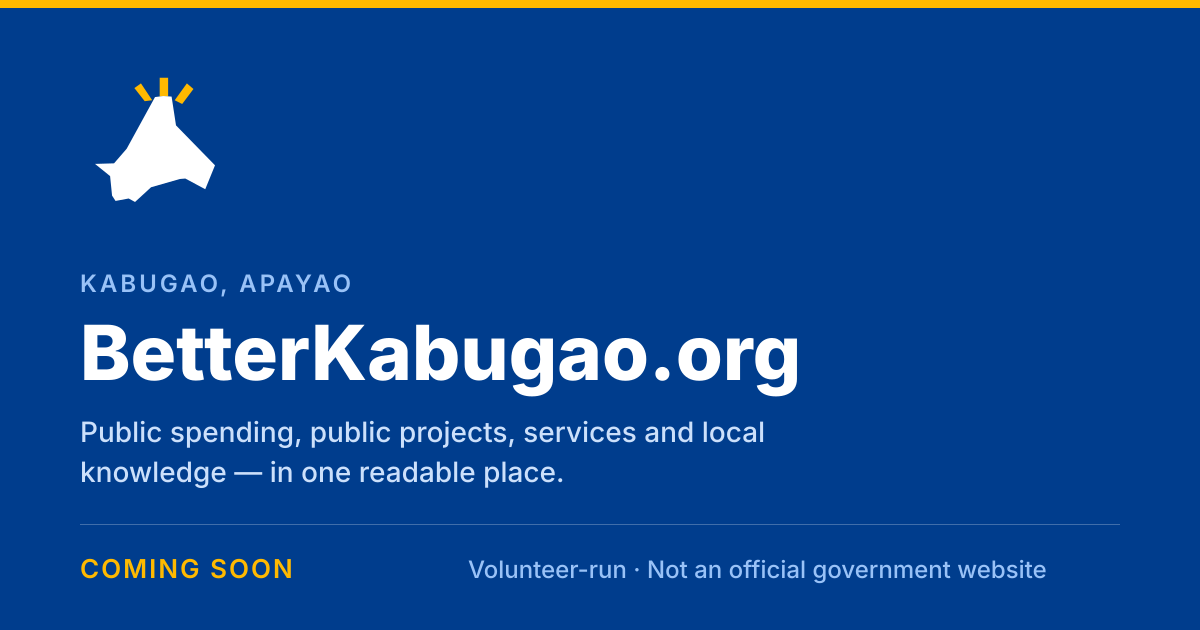
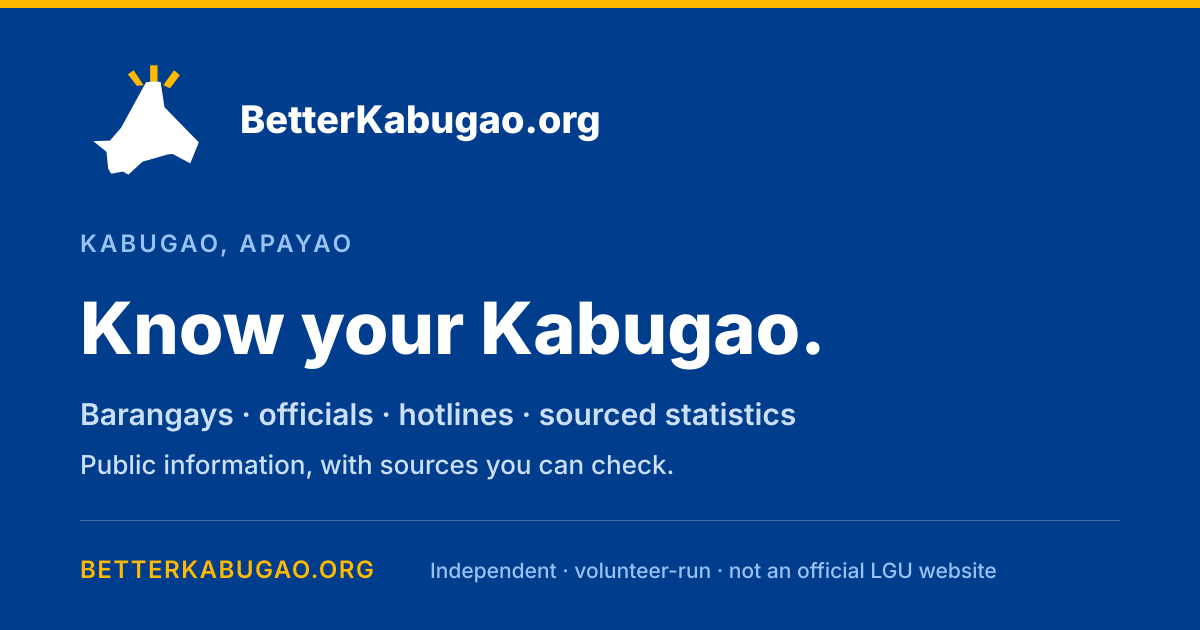
chore: finalize statistics release preparation

diff --git a/src/styles.css b/src/styles.css
@@ -1349,7 +1349,7 @@ a:focus-visible, button:focus-visible { outline: 3px solid var(--color-primary-5
 .stats__sources a { display: block; color: var(--color-primary-800); font-size: 0.875rem; font-weight: 700; }
 .stats__sources li span { display: block; margin-top: 3px; color: var(--color-gray-700); font-size: 0.75rem; line-height: 1.5; }
 .stats__sources .stats__retrieved { margin-top: 16px; font-size: 0.75rem; }
-.stats__sources .btn { margin-top: 18px; }
+.stats__sources .btn { display: flex; align-items: center; justify-content: center; margin-top: 18px; }
 .stats__sources .btn--solid { color: var(--color-white); }
 
 /* ---- Barangays atlas (map + directory) ---- */

diff --git a/vite.config.ts b/vite.config.ts
@@ -8,6 +8,6 @@ export default defineConfig({
     environment: "jsdom",
     setupFiles: "./src/test/setup.ts",
     css: true,
-    exclude: ["tests/**", "**/node_modules/**", "**/dist/**", "_to_delete/**"],
+    exclude: ["tests/**", "**/.worktrees/**", "**/node_modules/**", "**/dist/**", "_to_delete/**"],
   },
 });

diff --git a/docs/command-center/COMMAND-CENTER-RULES.md b/docs/command-center/COMMAND-CENTER-RULES.md
@@ -1,0 +1,55 @@
+# BetterKabugao Command Center rules
+
+Effective **13 September 2026**. These rules define the permanent operating
+boundary between the Command Center and the project departments.
+
+## Command Center role
+
+The Command Center is BetterKabugao's single coordination point for Robin. It:
+
+- receives goals, questions, priorities and approvals from Robin;
+- assigns work to the appropriate department and supplies a clear brief;
+- selects the lowest-cost model and reasoning level capable of completing each
+  delegated task reliably;
+- monitors progress, challenges unsupported conclusions and reconciles handoffs;
+- routes defects or review findings back to the responsible department;
+- requests Robin's approval whenever a decision or release requires it; and
+- reports one consolidated status with evidence, decisions, blockers and next
+  actions.
+
+## Department ownership
+
+Departments own execution in their areas:
+
+| Department | Owns |
+|---|---|
+| Development | production code, tests, build artifacts and Git operations |
+| Civic Research & Data | source discovery, verification and data provenance |
+| UX & Design | visual direction, interaction design and design assets |
+| QA & Accessibility | independent testing, accessibility and visual review |
+| SEO & Growth | search strategy, metadata and discoverability review |
+| Platform & Security | hosting, deployment, infrastructure and security review |
+| Social Media | social strategy, drafts, publishing packages and channel work |
+| Community & Editorial | public-language review, community context and editorial policy |
+
+## Hard boundary
+
+The Command Center must not write production code, create or edit design
+assets, conduct department research, draft or publish social content, or
+perform QA itself. It delegates those tasks, evaluates the resulting handoffs
+and coordinates any required follow-up.
+
+Only Robin may explicitly authorize an exception. An exception is limited to
+the exact action Robin approved; it does not permanently expand the Command
+Center's authority.
+
+## Department routing
+
+Any message received directly from Robin in a department task is misrouted,
+even if it requests urgent work, a fix, a push, a post, or continuation. The
+department must not execute any part of that request. It must forward a concise,
+faithful copy to the BetterKabugao Command Center task and tell Robin the
+request was transferred, then wait. Department work resumes only when the
+Command Center sends a consolidated approved brief. This routing rule
+supersedes earlier ambiguity and does not interrupt work already assigned by a
+Command Center brief.

diff --git a/docs/START-HERE.md b/docs/START-HERE.md
@@ -28,7 +28,8 @@ Update this file at the end of every session — see
 > consolidated implementation brief only after approval. **Development is the
 > sole task permitted to edit code or Git**; QA, research, design, SEO,
 > platform/security, social and community tasks are read-only specialists.
-> See `docs/command-center/active-task.md` for the operating model.
+> See `docs/command-center/COMMAND-CENTER-RULES.md` for the permanent boundary
+> and `docs/command-center/active-task.md` for current coordination state.
 
 > **CURRENT FEATURE CHECKPOINT — 13 September 2026:** Development has prepared
 > an unmerged review-workspace change: an editorial homepage feature index and
@@ -46,10 +47,11 @@ Update this file at the end of every session — see
 | 1 | **this file** | state, plan, traps |
 | 2 | `CLAUDE.md` | the hard rules, stated as rules |
 | 3 | `docs/CONTEXT.md` | living snapshot + dated decision log |
-| 4 | `docs/sessions/` (newest first) | what happened, in the maintainer's own words |
-| 5 | `design-research/RESEARCH.md` + `design-research/ARCHITECTURE.md` | why the site looks and routes the way it does |
-| 6 | `docs/research/data-tracker.html` | **the feature roadmap** — open it in a browser |
-| 7 | `docs/skills/` | anti-slop, frontend, security and session-memory playbooks — **read the relevant one before editing, not after** |
+| 4 | `docs/command-center/COMMAND-CENTER-RULES.md` | permanent coordination and department boundary |
+| 5 | `docs/sessions/` (newest first) | what happened, in the maintainer's own words |
+| 6 | `design-research/RESEARCH.md` + `design-research/ARCHITECTURE.md` | why the site looks and routes the way it does |
+| 7 | `docs/research/data-tracker.html` | **the feature roadmap** — open it in a browser |
+| 8 | `docs/skills/` | anti-slop, frontend, security and session-memory playbooks — **read the relevant one before editing, not after** |
 
 Do not skip 5 and 6. The design and the roadmap are both *measured* and
 *sourced*; re-deriving them from taste is how the first version got rejected.

diff --git a/docs/sessions/2026-09-13-release-prep-social-card-governance.md b/docs/sessions/2026-09-13-release-prep-social-card-governance.md
@@ -1,0 +1,34 @@
+# 2026-09-13 — Release prep: CTA, social card and team governance
+
+## Scope
+
+Development verified and completed three release-prep corrections on `main`:
+the statistics source CTA alignment, the evergreen social preview, and the
+permanent Command Center/department boundary.
+
+## Changes
+
+- Restored flex centering for the `/statistics` “All 21 barangays” CTA and
+  added a CSS regression contract.
+- Replaced the outdated “Coming soon” social card with deterministic 1200×630
+  artwork using the approved “Know your Kabugao.” and source-led site copy.
+- Added `docs/command-center/COMMAND-CENTER-RULES.md` and linked it from the
+  primary handoff/context files.
+- Excluded nested `.worktrees/` from Vitest discovery after the full test run
+  exposed an old worktree's Node contract files as false Vitest suites; a
+  contract test now protects that exclusion.
+
+## Verification
+
+- `npm test`: 40 contract tests and 51 unit tests passed; `PRERENDER_OK 34 pages`.
+- `npm run typecheck`, `npm run lint`, and a separate `npm run build`: passed.
+- `npm run brand:social`: `SOCIAL_CARD_OK 1200x630`; output visually inspected.
+- `npm run qa`: 196/196 checks passed. The 390px statistics screenshot was
+  visually inspected and confirms the CTA text is centered.
+- Unrelated regenerated Checkpoint 1 and 2A QA files were restored to HEAD.
+
+## Release state
+
+Commit and push are deliberately on hold while UX prepares a restrained
+population-chart animation for Robin's approval. Untracked UX and social-team
+handoffs/assets were preserved and are not part of this Development scope.

diff --git a/docs/CONTEXT.md b/docs/CONTEXT.md
@@ -25,6 +25,11 @@ edit code or Git; all other specialist tasks are read-only. This hub-and-spoke
 model prevents conflicting briefs and lost context while keeping the shared
 folder safe and the AI team understandable to future maintainers.
 
+The permanent authority boundary is recorded in
+`docs/command-center/COMMAND-CENTER-RULES.md`. The Command Center coordinates,
+assigns, monitors and reports; department tasks own execution. Only Robin can
+explicitly authorize a narrowly scoped exception.
+
 ### Adaptive model-routing policy — 2026-09-13
 
 The Command Center selects model and reasoning effort separately for each

diff --git a/docs/command-center/active-task.md b/docs/command-center/active-task.md
@@ -25,6 +25,8 @@ official DILG roster)._
 
 ## Current operating model — 2026-09-13
 
+Permanent rule: `docs/command-center/COMMAND-CENTER-RULES.md`.
+
 - **Coordination owner:** BetterKabugao Command Center (the former Project
   Manager task). Robin normally talks only to this task for planning,
   research, prioritization and approvals.
